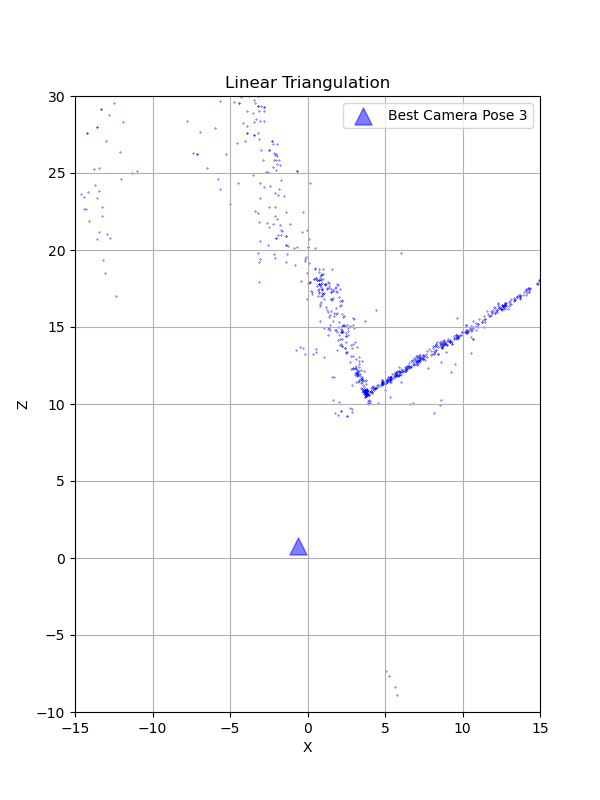
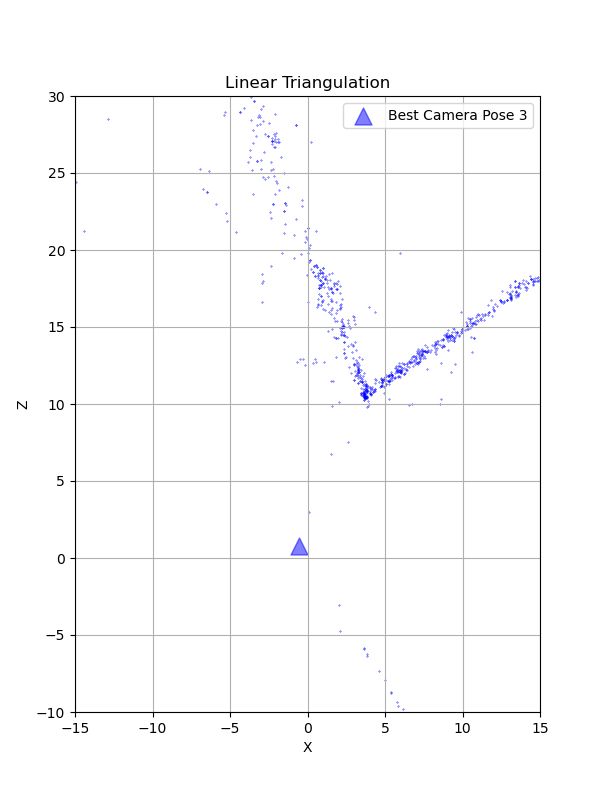
BA fixed

diff --git a/Utils/BundleAdjustment.py b/Utils/BundleAdjustment.py
@@ -11,15 +11,20 @@ def Get2DIndices(X_ids, x_feat, y_feat, VMatrix):
     vis_y_feats = y_feat[X_ids]
 
     for i in range(VMatrix.shape[0]):
-        for j in range(VMatrix.shape[0]):
+        for j in range(VMatrix.shape[1]):
             if VMatrix[i,j] == 1:
-                pts_2d.append(np.concatenate((vis_x_feats[i,j], vis_y_feats[i,j]), axis=1))
+                pts_2d.append(np.hstack((vis_x_feats[i,j], vis_y_feats[i,j])))
                 pts_ids.append(i) # Row are equivalent to matches
                 cam_ids.append(j) # Columns are equivelent to image id
 
     return np.array(pts_2d).reshape(-1,2), np.array(pts_ids).reshape(-1), np.array(cam_ids).reshape(-1)
 
 def BundleAdjustmentSparsity(cam_id, Inliers3D_all_img_ids, inlier_ids, x_feat, y_feat):
+    '''
+    Refer to scipy sparse bundle adjustment
+    (https://scipy-cookbook.readthedocs.io/items/bundle_adjustment.html)
+    '''
+    
     curr_cam = cam_id+1
     X_ids, VMatrix = BuildVisibilityMatrix(Inliers3D_all_img_ids, inlier_ids, cam_id)
 
@@ -43,13 +48,39 @@ def BundleAdjustmentSparsity(cam_id, Inliers3D_all_img_ids, inlier_ids, x_feat, 
 
     return A
 
-def CostFunction():
-    pass
+def CostFunction(x0, n_cameras, n_points, camera_indices, point_indices, points_2d, K):
+    
+    '''
+    Refer to scipy sparse bundle adjustment
+    (https://scipy-cookbook.readthedocs.io/items/bundle_adjustment.html)
+    '''
+    total_cam = n_cameras+1
+    camera_params = x0[:total_cam * 6].reshape((total_cam, 6))
 
+    points_3d = x0[total_cam * 6:].reshape((n_points, 3))
 
-def BundleAdjustment(x_feat, y_feat, inliers_ids, Inliers3D_all_img, 
-                     Inliers3D_all_img_ids, Rotations, Translations,
-                     K, cam_id):
+    x_proj_list = []
+    points_3d = points_3d[point_indices]
+    camera_params = camera_params[camera_indices]
+
+    for i in range(len(camera_params)):
+        R_ = Rotation.from_rotvec(camera_params[i, :3])
+        R = R_.as_matrix()
+        C = camera_params[i, 3:].reshape(3,1)
+        point_3d = points_3d[i]
+        P = np.dot(K, np.dot(R, np.concatenate((np.identity(3), -C), axis=1)))
+        x_4 = np.hstack((point_3d, 1))
+        x_projected = np.dot(P, x_4.T)
+        x_projected = x_projected/x_projected[-1]
+        pt_proj = x_projected[:2]
+        x_proj_list.append(pt_proj)
+    x_projections = np.array(x_proj_list)
+    error_vec = (x_projections - points_2d).ravel()
+
+    return error_vec        
+
+def BundleAdjustment(x_feat, y_feat, inliers_ids, Inliers3D_all_img, Inliers3D_all_img_ids, 
+                     Rotations, Translations, K, cam_id):
     
     X_ids, VMatrix = BuildVisibilityMatrix(Inliers3D_all_img_ids, inliers_ids, cam_id)
     points_3d = Inliers3D_all_img[X_ids]
@@ -59,15 +90,39 @@ def BundleAdjustment(x_feat, y_feat, inliers_ids, Inliers3D_all_img,
 
     for i in range(cam_id+1):
         R, C = Rotations[i], Translations[i]
-        Q = Rotation.from_matrix(R).as_rotvec
-        RC = [Q[0], Q[1], Q[2], C[0], C[1], C[2]]
+        if R is 0 and C is 0:
+            continue
+        Q_ = Rotation.from_matrix(R)
+        Q = Q_.as_rotvec()
+        RC = [Q[0], Q[1], Q[2], C[0][0], C[1][0], C[2][0]]
         Poses.append(RC)
-
     Poses = np.array(Poses).reshape(-1, 6)
 
-    x0 = np.concatenate((Poses.ravel(), points_3d.ravel()), axis=1)
+    x0 = np.concatenate((Poses.ravel(), points_3d.ravel()), axis=0)
     NumPoint = points_3d.shape[0]
 
     A = BundleAdjustmentSparsity(cam_id, Inliers3D_all_img_ids, inliers_ids, x_feat, y_feat)
 
-    result = least_squares()
+    result = least_squares(CostFunction, x0, jac_sparsity=A, verbose=2, x_scale='jac',
+                           ftol=1e-4, method='trf',
+                           args=(cam_id, NumPoint, cam_ids, pts_ids, points_2d, K))
+    
+    x_1 = result.x
+    total_cameras = cam_id+1
+
+    optimal_camera_params = x_1[:total_cameras*6].reshape((total_cameras, 6))
+    optimal_points_3d = x_1[total_cameras*6:].reshape((NumPoint, 3))
+
+    optim_points_3d_all = np.zeros_like(Inliers3D_all_img)   
+    optim_points_3d_all[X_ids] = optimal_points_3d
+
+    optim_R_set, optim_C_set = [], []
+
+    for i in range(len(optimal_camera_params)):
+        R_ = Rotation.from_rotvec(optimal_camera_params[i, :3])
+        R = R_.as_matrix()
+        C = optimal_camera_params[i, 3:].reshape(3,1)
+        optim_R_set.append(R)
+        optim_C_set.append(C)
+
+    return optim_R_set, optim_C_set, optim_points_3d_all

diff --git a/Wrapper.py b/Wrapper.py
@@ -11,9 +11,10 @@ from Utils.ExtractCameraPose import ExtractCameraPose
 from Utils.DisambiguateCameraPose import DisambiguateCamPoseAndTriangulate
 from Utils.LinearTriangulation import LinearTriangulation
 from Utils.NonlinearTriangulation import NonlinearTriangulation
-from Utils.Utils import PlotInliers, PlotNonTriangulation
+from Utils.Utils import PlotInliers, PlotNonTriangulation, PlotFinalPoses
 from Utils.PnPRANSAC import PnPRANSAC
 from Utils.NonlinearPnP import NonLinearPnP
+from Utils.BundleAdjustment import BundleAdjustment
 
 def main():
     # Parse Command Line arguments
@@ -107,8 +108,8 @@ def main():
     Pose_Rotation, Pose_Translation = [], []
     R1 = np.eye(3)
     C1 = np.zeros((3,1))
-    Pose_Rotation.append()
-    Pose_Translation.append(np.zeros((3,1)))
+    Pose_Rotation.append(R1)
+    Pose_Translation.append(C1)
 
     Pose_Rotation.append(R_set)
     Pose_Translation.append(C_set.reshape((3,1)))
@@ -135,7 +136,7 @@ def main():
         R_new, C_new = NonLinearPnP(targ_coords_pnp, src_3D_pnp, K, R_new, C_new)
         
         Pose_Rotation.append(R_new)
-        Pose_Translation.append(C_new.reshape((3,1)))
+        Pose_Translation.append(C_new)
 
         for j in range(0, i):
             com_ids = np.where(inlier_ids[:,i] & inlier_ids[:,j])
@@ -157,6 +158,21 @@ def main():
                                       Pts3D=X, R2=Pose_Rotation[j], 
                                       C2=Pose_Translation[j], K=K)
             X = X / X[:,3].reshape(-1,1)
+
+            Inliers3D_all_img[com_ids] = X[:, :3]
+            Inliers3D_all_img_ids[com_ids] = 1
+
+        R_set, C_set, Optim_X = BundleAdjustment(x_coords, y_coords, inlier_ids, Inliers3D_all_img, Inliers3D_all_img_ids,
+                                                 Pose_Rotation, Pose_Translation, K, i)
+
+    Inliers3D_all_img_ids[Inliers3D_all_img[:,2] < 0] = 0
+
+    indices = np.where(Inliers3D_all_img_ids[:, 0])
+    X = Inliers3D_all_img[indices]
+
+    PlotFinalPoses(R_set=R_set, C_set=C_set, X=X)
+
+
 
     # print("\n#---------------- Fundamental Matrix ----------------#")
     # print(F)

diff --git a/Utils/Utils.py b/Utils/Utils.py
@@ -1,5 +1,6 @@
 import numpy as np
 import cv2
+from scipy.spatial.transform import Rotation
 import matplotlib.pyplot as plt
 
 def PlotInliers(img1, img2, matches):
@@ -97,4 +98,25 @@ def PlotNonTriangulation(linear_pts, non_linear_pts, C):
     plt.legend()
     plt.title('Plot of non-linear triangulation')
     plt.savefig("./SaveFig/NonLinear_Triangulation.png")
+    plt.show()
+
+def PlotFinalPoses(R_set, C_set, X):
+    plt.figure(figsize=(6, 8))
+
+    plt.scatter(X[:,0], X[:,2], s=0.5, color='k')
+
+    for R, C in zip(R_set, C_set):
+        eular = Rotation.from_matrix(R)
+        R_ = eular.as_rotvec()
+        R_ = np.rad2deg(R_)
+        plt.plot(C[0], C[2], marker=(3,0,int(R_[1])), markersize=15, linestyle='None')
+    
+    plt.xlabel('X')
+    plt.ylabel('Z')
+    plt.xlim(-15, 15) 
+    plt.ylim(-10, 30)
+    plt.grid()
+    plt.legend()
+    plt.title('Plot of sparse bundle adjustment')
+    plt.savefig("./SaveFig/SBA.png")
     plt.show()

diff --git a/Utils/BuildVisibilityMatrix.py b/Utils/BuildVisibilityMatrix.py
@@ -1,20 +1,17 @@
 import numpy as np
 
-def BuildVisibilityMatrix(x_ids, X_all, cam_id):
+def BuildVisibilityMatrix(X_all, x_ids, cam_id):
     temp = np.zeros((x_ids.shape[0]), dtype=int)
 
     for i in range(cam_id+1):
         temp = temp | x_ids[:,i]
+
     inliers_3D = X_all.reshape(-1)
-
     X_ids = np.where(inliers_3D & temp)
-
     VMatrix = X_all[X_ids].reshape(-1,1)
 
     for i in range(cam_id+1):
-
         VMatrix = np.concatenate((VMatrix, x_ids[X_ids, i].reshape(-1,1)), axis=1)
 
     VMatrix = VMatrix[:, 1:VMatrix.shape[1]]
-
     return X_ids, VMatrix

diff --git a/Utils/NonlinearPnP.py b/Utils/NonlinearPnP.py
@@ -16,7 +16,7 @@ def NonLinearPnP(x, X, K, R, C):
         R_ = Rotation.from_quat(optim_q)
         R = R_.as_matrix()
 
-        return R, C
+        return R, C.reshape((3,1))
     
     else:
         return 0, 0
